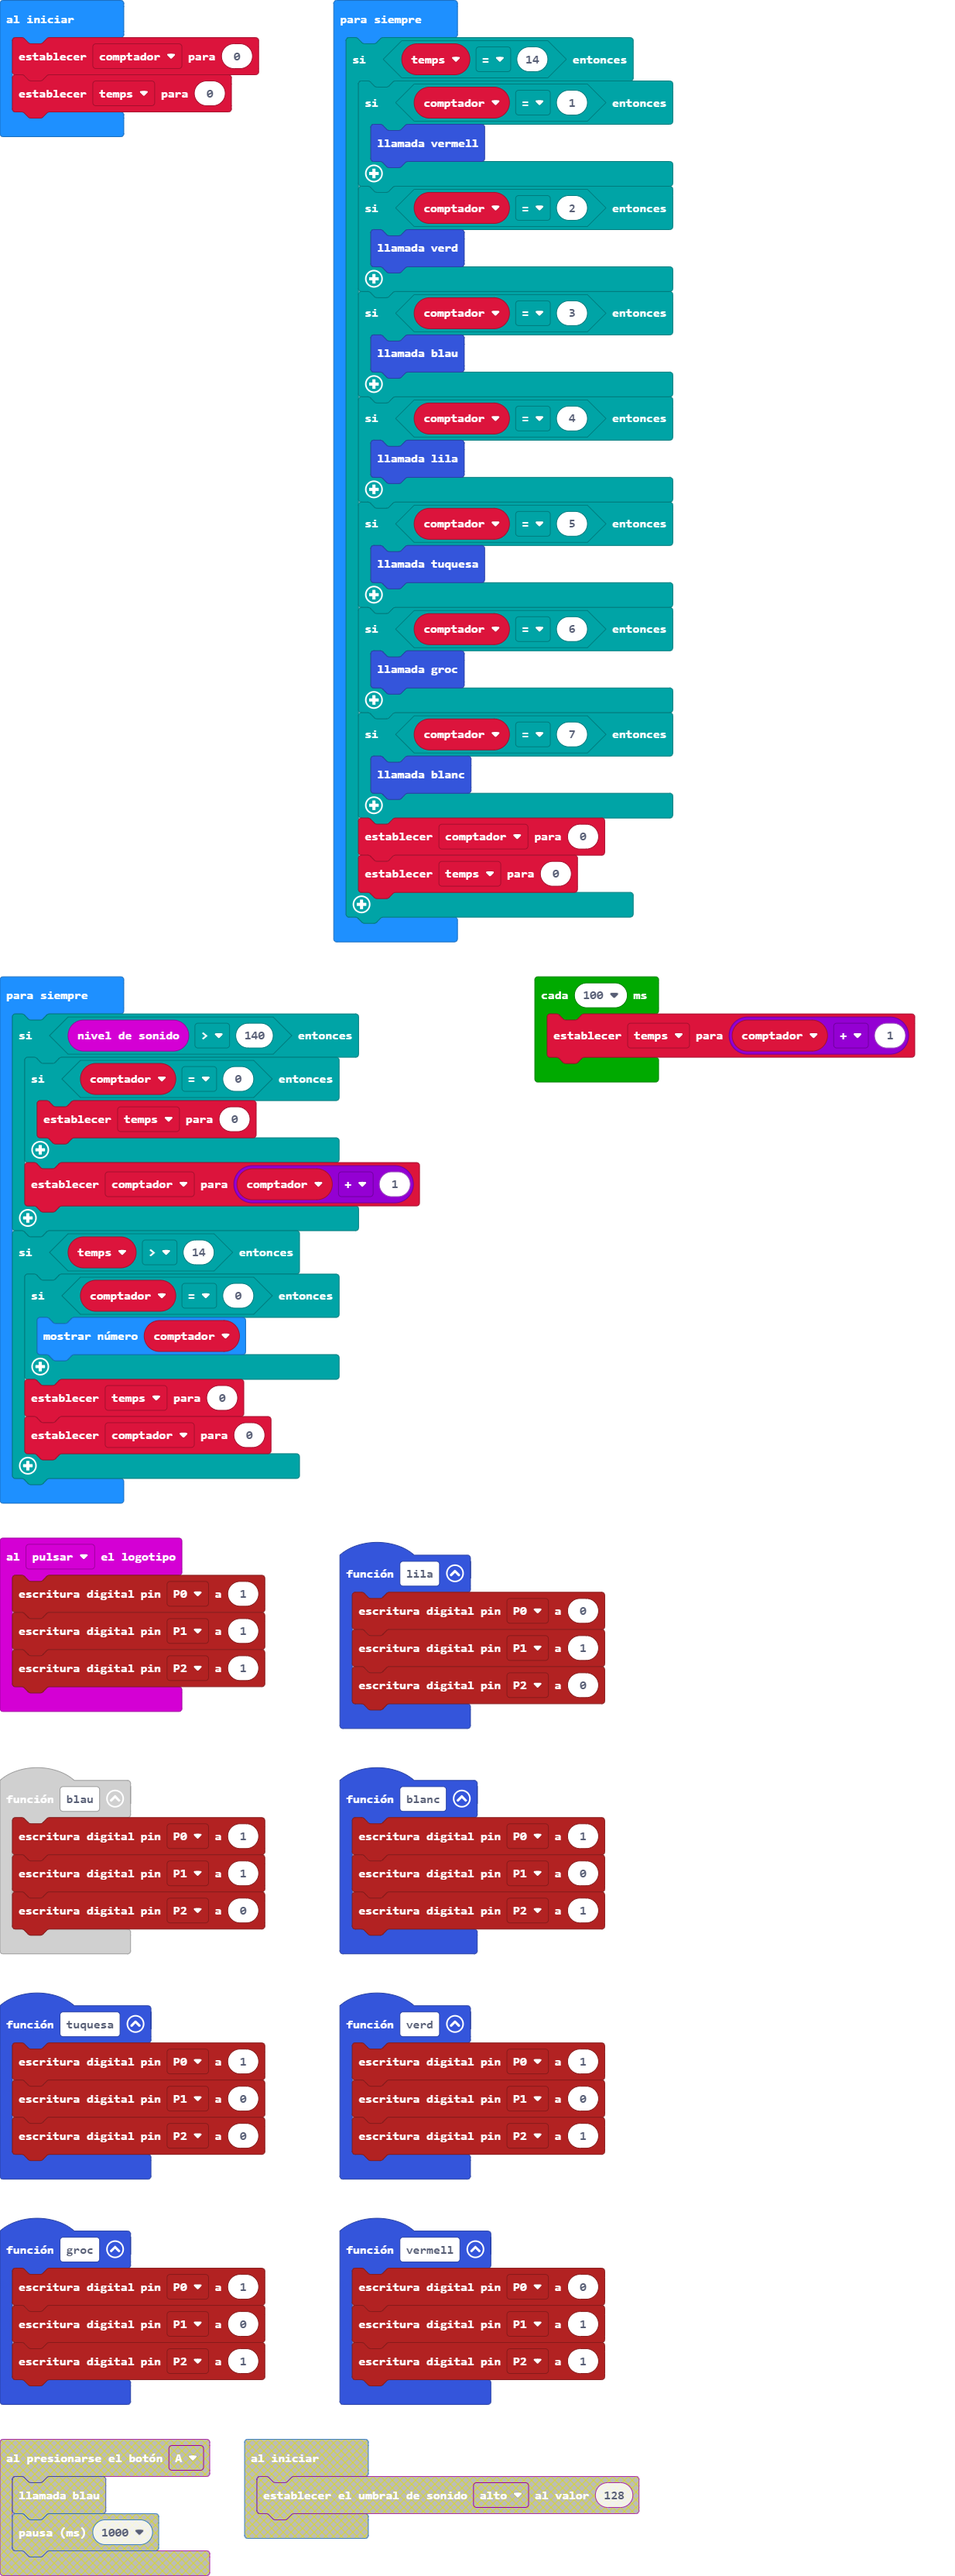
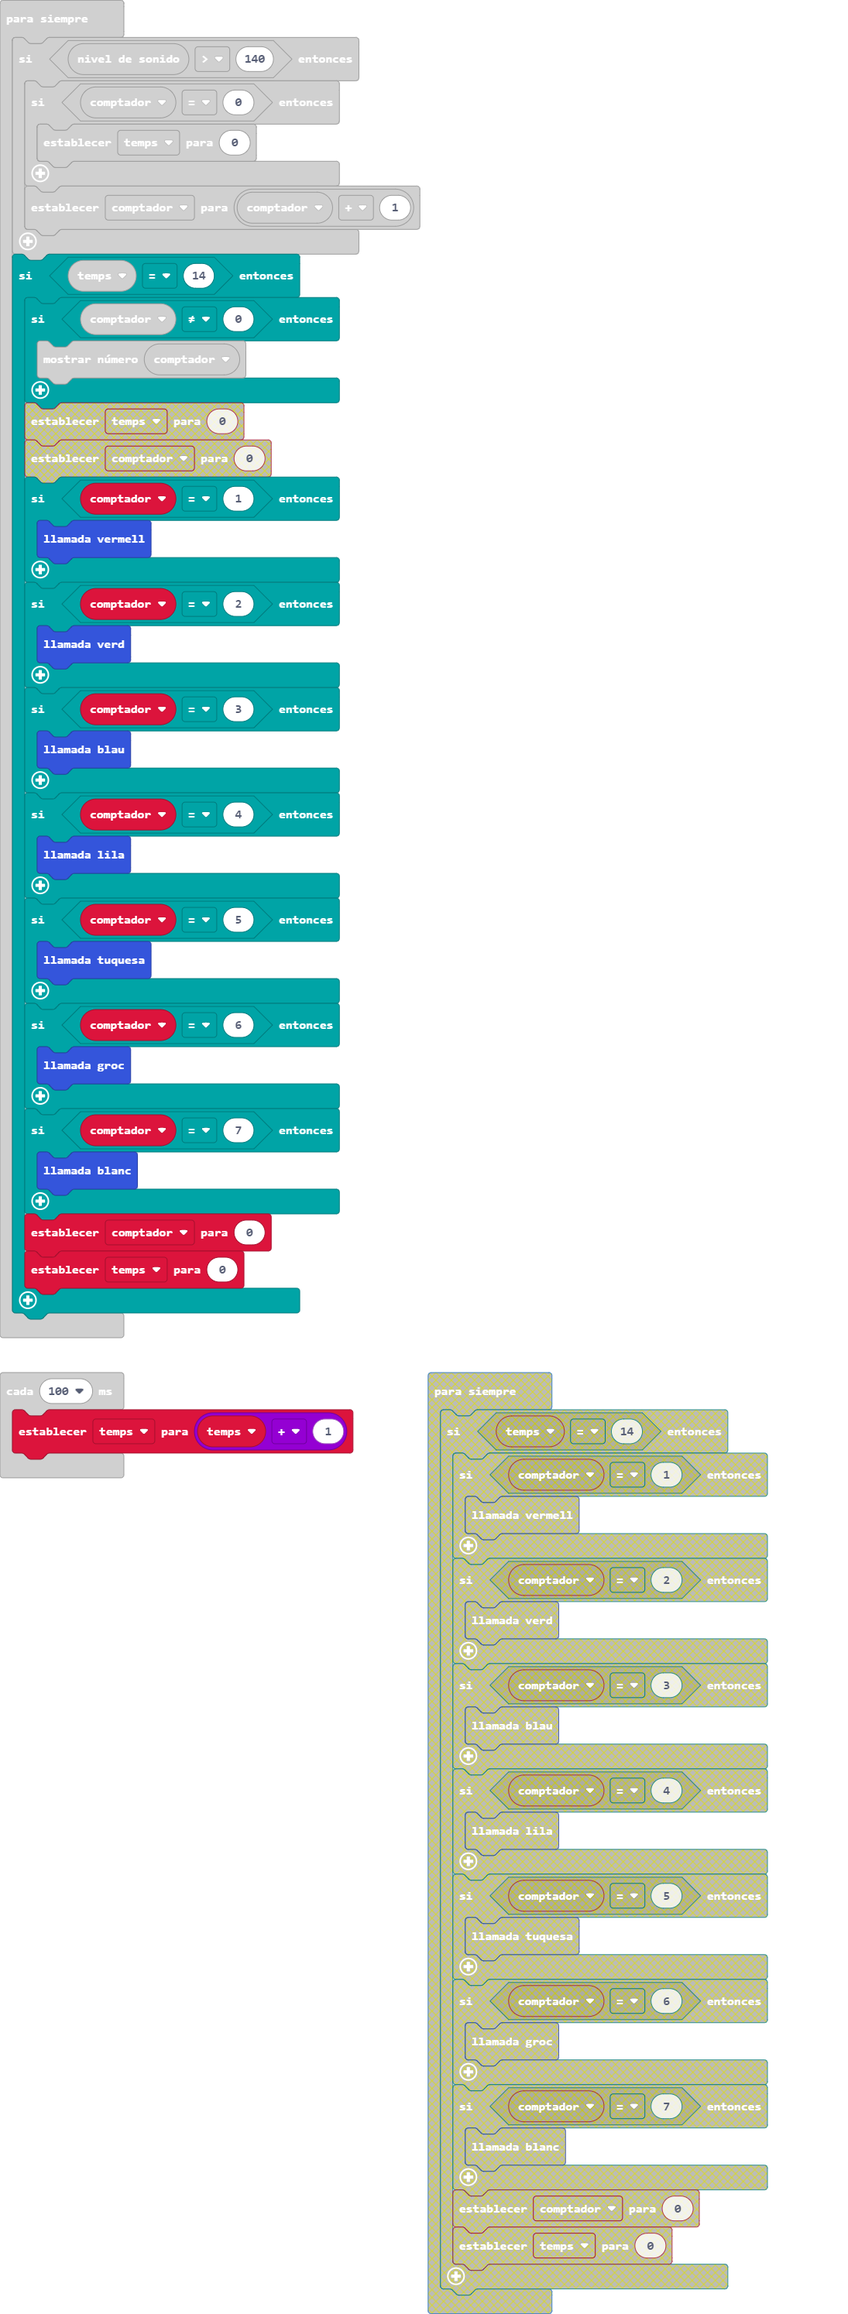
k

diff --git a/main.ts b/main.ts
@@ -41,7 +41,16 @@ function blau () {
 let comptador = 0
 let temps = 0
 basic.forever(function () {
+    if (input.soundLevel() > 140) {
+        if (comptador == 0) {
+            temps = 0
+        }
+        comptador = comptador + 1
+    }
     if (temps == 14) {
+        if (comptador != 0) {
+            basic.showNumber(comptador)
+        }
         if (comptador == 1) {
             vermell()
         }
@@ -67,21 +76,6 @@ basic.forever(function () {
         temps = 0
     }
 })
-basic.forever(function () {
-    if (input.soundLevel() > 140) {
-        if (comptador == 0) {
-            temps = 0
-        }
-        comptador = comptador + 1
-    }
-    if (temps > 14) {
-        if (comptador == 0) {
-            basic.showNumber(comptador)
-        }
-        temps = 0
-        comptador = 0
-    }
-})
 loops.everyInterval(100, function () {
-    temps = comptador + 1
+    temps = temps + 1
 })
